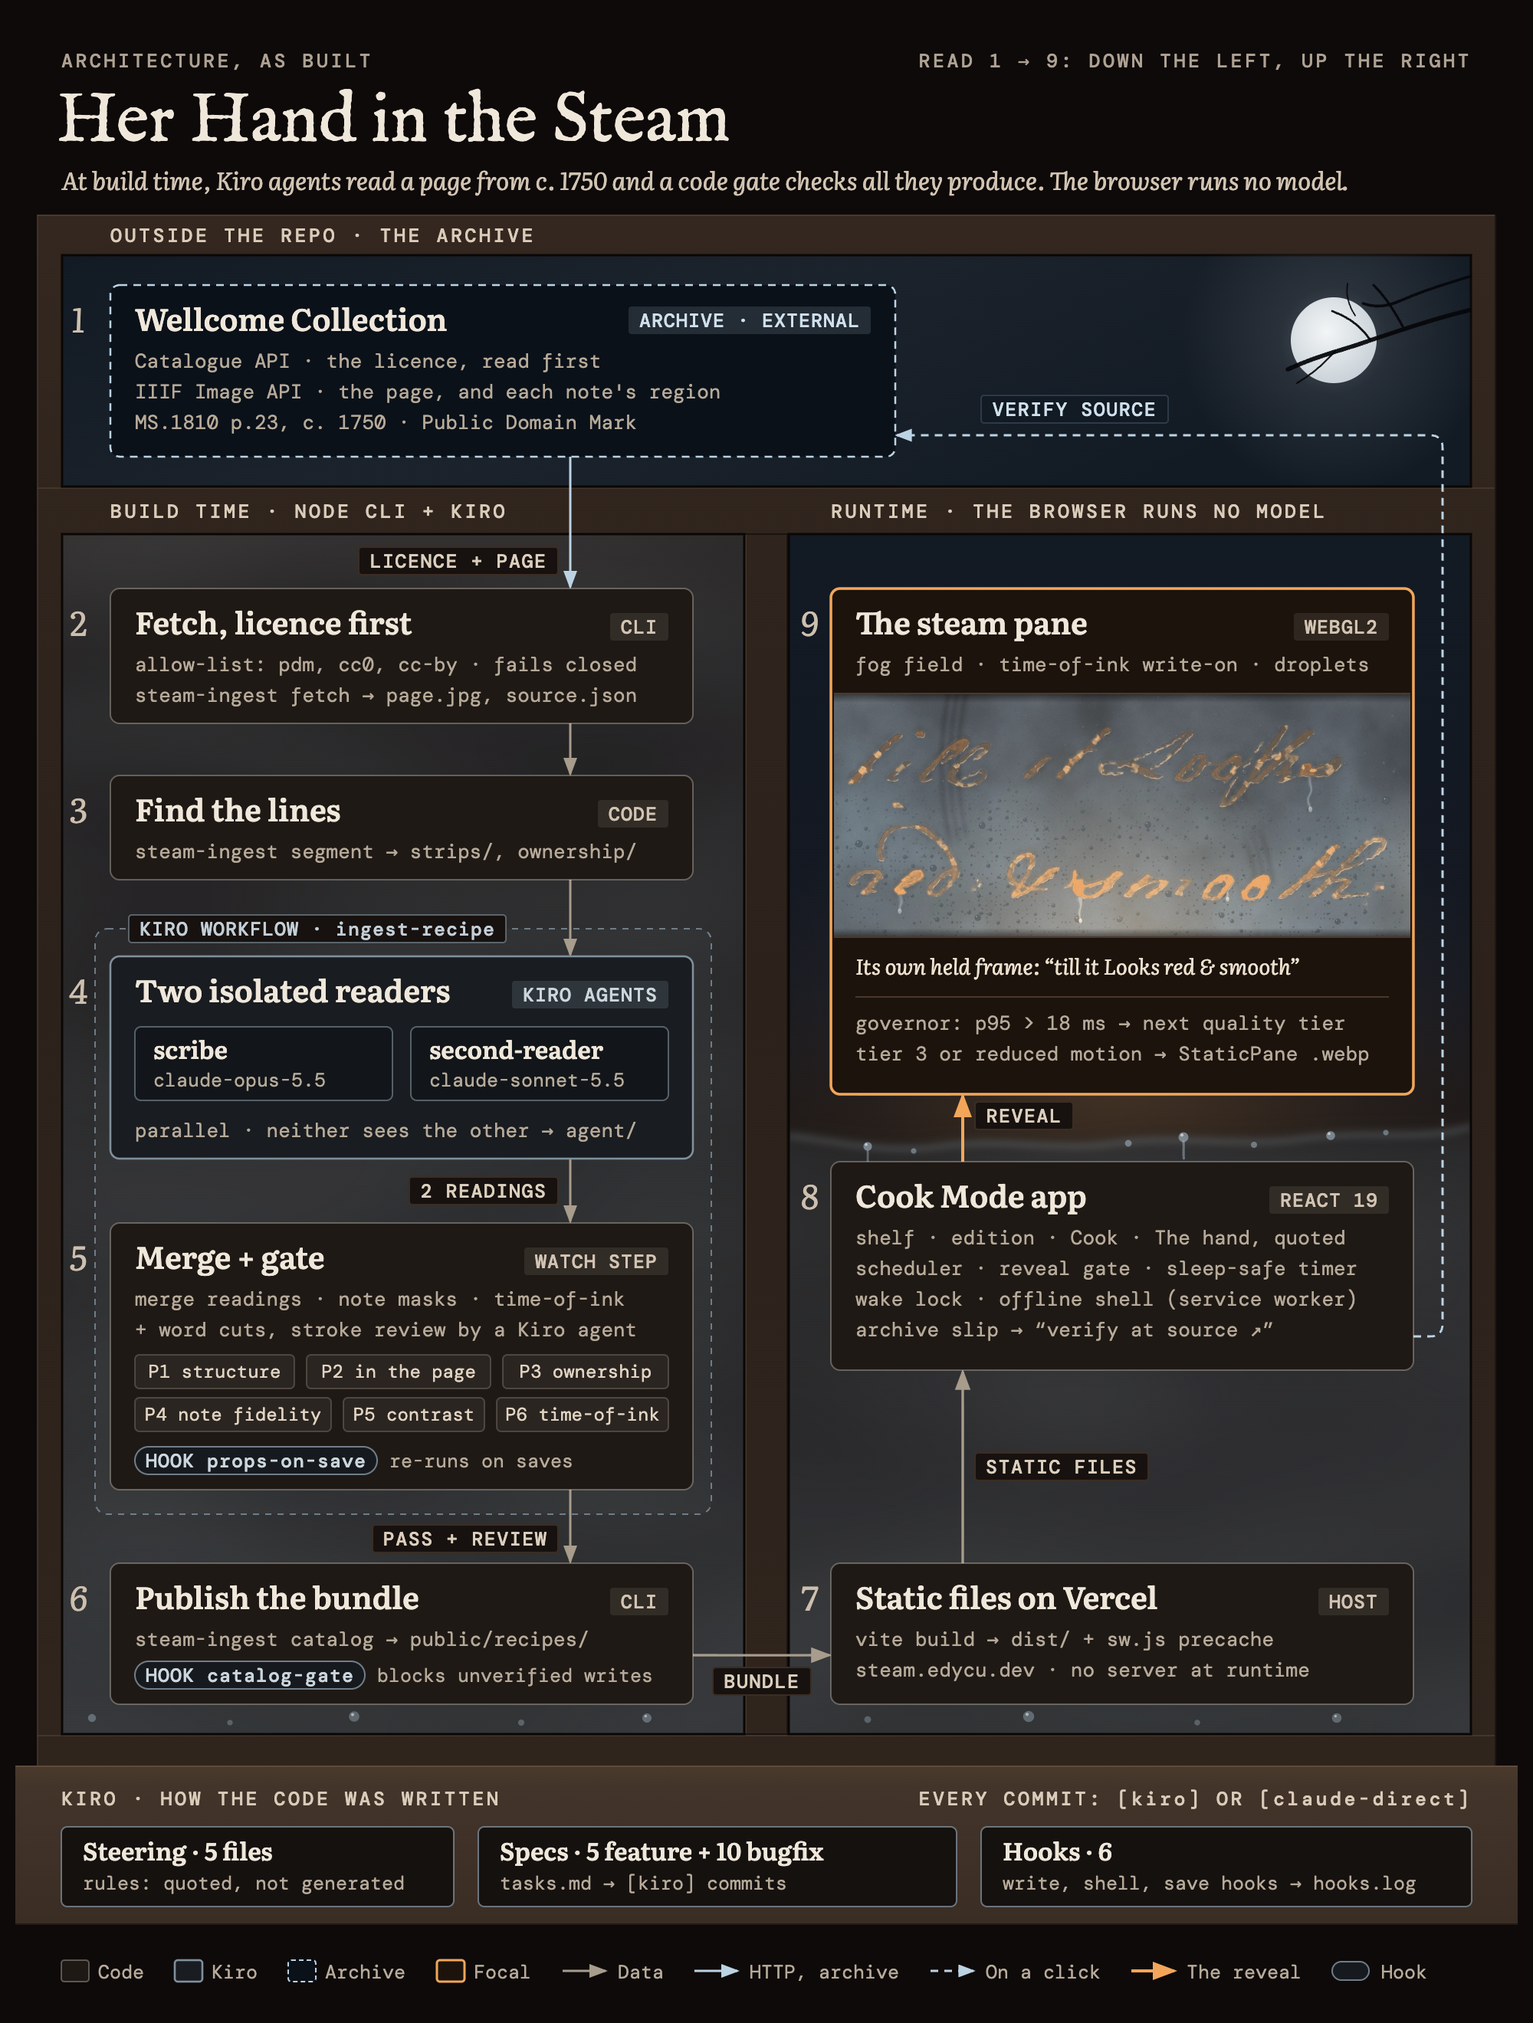
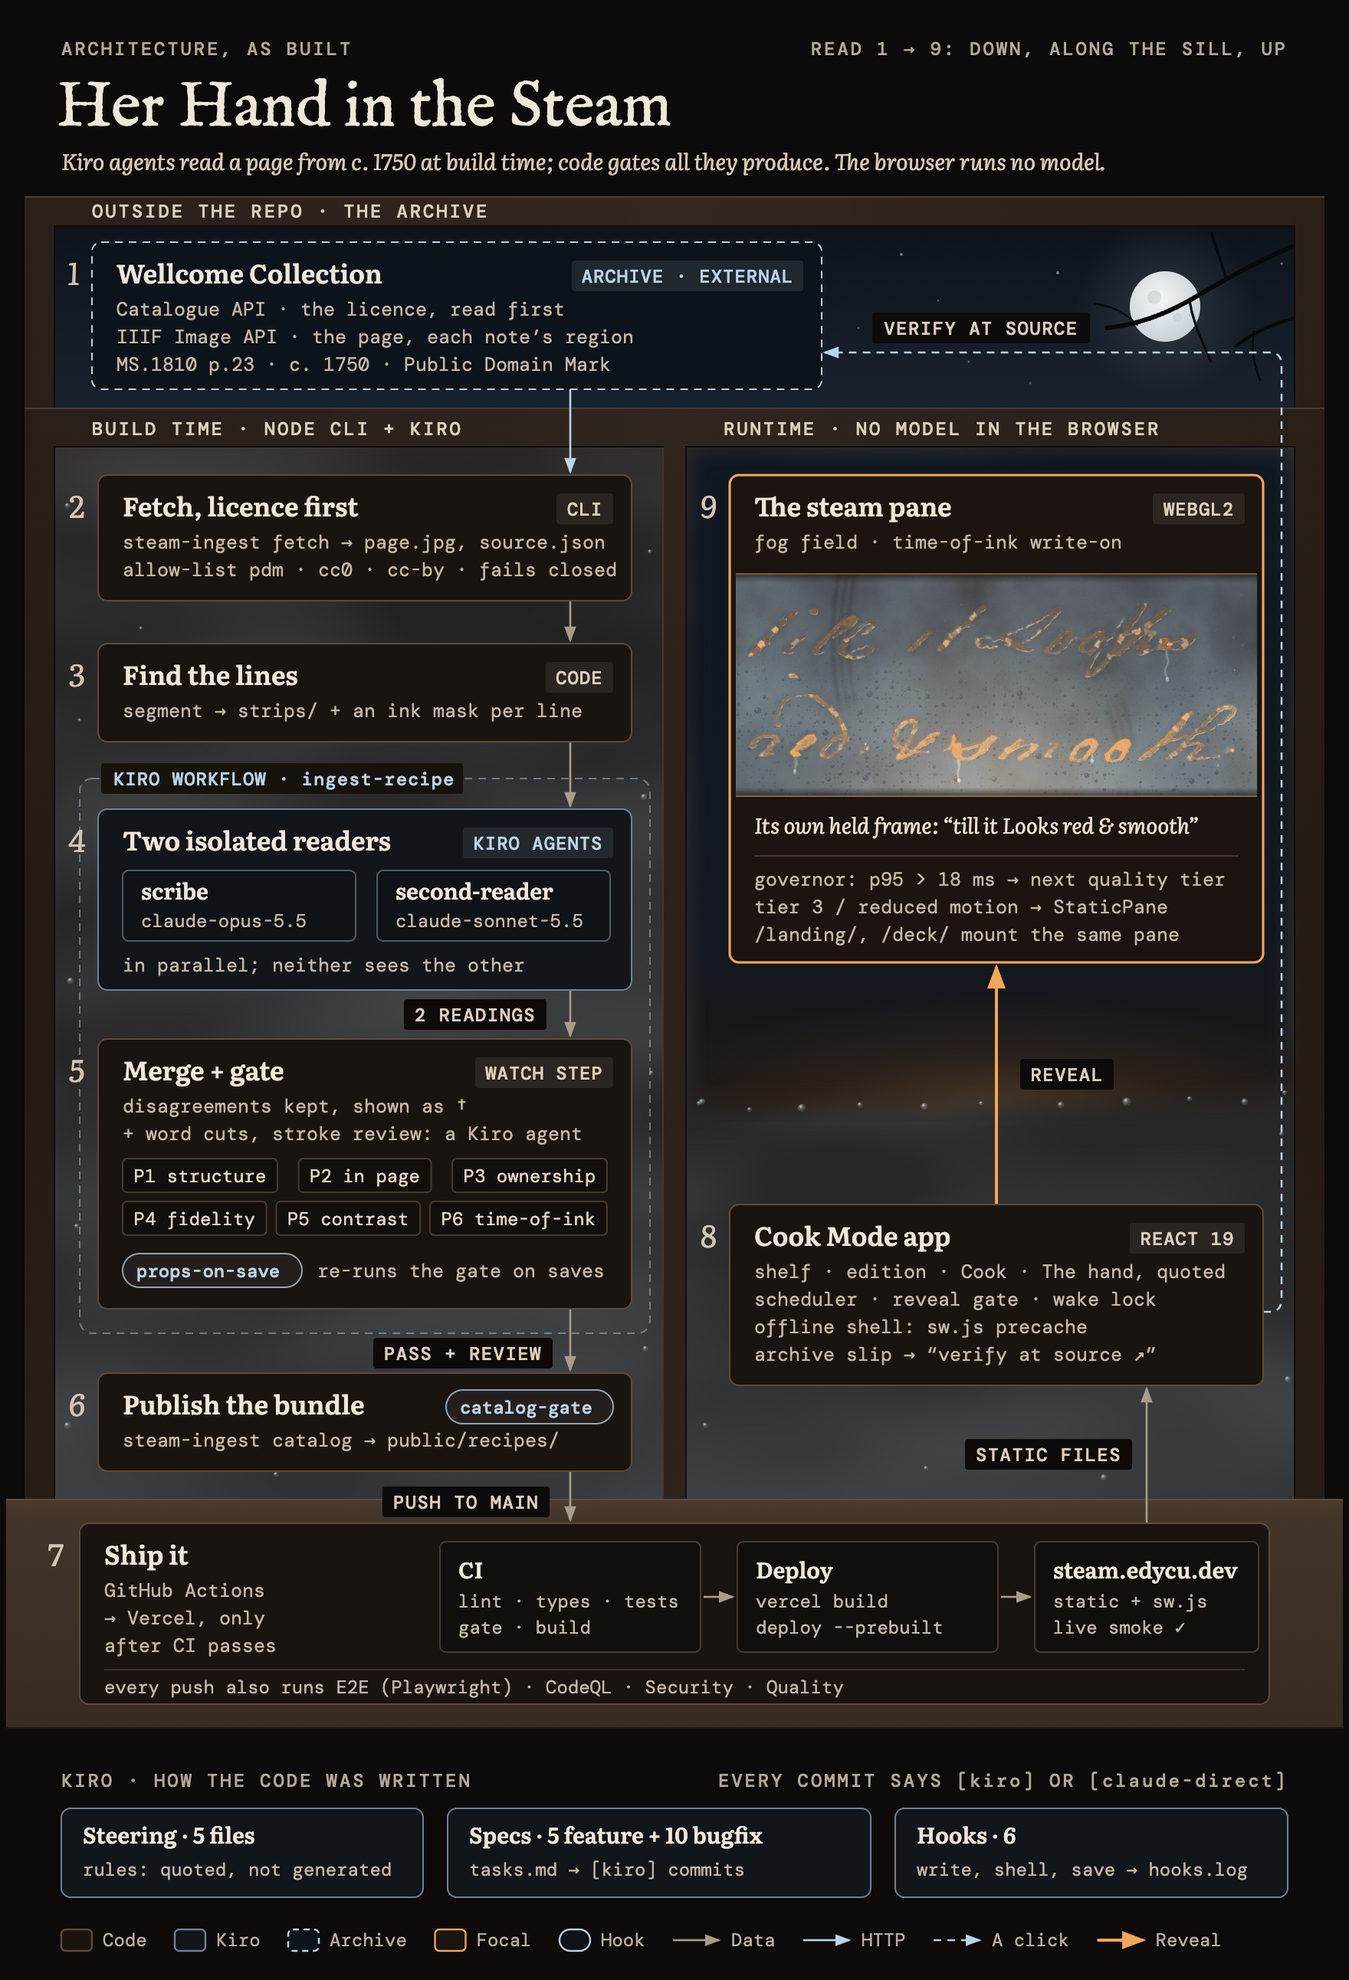
[claude-direct] Architecture diagram v2: drawn at the README's 880 px, shipping on the sill, the loop closed at the archive
- 880 px viewBox rendered at 2x (1760x2584), so every label is >= 12 px at README width (v1: 9.6-10.6 px)
- new box 7 'Ship it' on the sill: CI must pass before Deploy (vercel build -> deploy --prebuilt -> live smoke);
  E2E, CodeQL, Security and Quality on every push
- reading order down the build pane, along the sill, up the runtime pane; the dashed verify-at-source link
  returns to the archive the ink came from
- runtime pane glass wiped clear above a beaded fog line; the steam pane keeps the renderer's own held frame
- ARCHITECTURE.md: Mermaid and the box-to-files table follow (box 7 = the workflows, live-smoke, vite plugins)
oxipng -o max --strip safe, pixel-identical to the render.

diff --git a/ARCHITECTURE.md b/ARCHITECTURE.md
@@ -1,44 +1,46 @@
 # Architecture
 
-![Her Hand in the Steam, architecture as built, drawn as a sash window. Upper sash, step 1: the Wellcome Collection archive. Left lower pane, build time, steps 2 to 6: steam-ingest fetch checks the licence first; segment finds the lines; two isolated Kiro agents, scribe and second-reader, read the line strips inside the Kiro workflow ingest-recipe; the code gate merges the readings with a Kiro agent's word cuts and stroke review and checks properties P1 to P6; steam-ingest catalog publishes the bundle. Right lower pane, runtime, steps 7 to 9: static files on Vercel load the Cook Mode app, which reveals the scan's own ink in the WebGL2 steam pane and links back to the archive. Sill: Kiro steering, specs and hooks, how the code was written.](docs/architecture.png)
+![Her Hand in the Steam, architecture as built, drawn as a sash window and read 1 to 9. Upper sash, outside the repo: 1 the Wellcome Collection archive (Catalogue API for the licence, IIIF Image API for the page and each note's region; MS.1810 p.23, c. 1750, Public Domain Mark). Left lower pane, build time, down: 2 steam-ingest fetch checks the licence first against the allow-list pdm, cc0, cc-by; 3 segment cuts the line strips and an ink mask per line; inside the Kiro workflow ingest-recipe, 4 two isolated Kiro agents, scribe on claude-opus-5.5 and second-reader on claude-sonnet-5.5, read the strips in parallel, and 5 the code gate merges their readings, keeps disagreements as daggers, takes a Kiro agent's word cuts and stroke review, and checks properties P1 to P6, re-run on saves by the props-on-save hook; 6 steam-ingest catalog publishes the bundle to public/recipes/ behind the catalog-gate hook. Along the sill: 7 a push to main runs GitHub Actions; CI (lint, types, tests, gate, build) must pass before Deploy runs vercel build and deploy --prebuilt to steam.edycu.dev, followed by a live smoke test; every push also runs E2E, CodeQL, Security and Quality. Right lower pane, runtime with no model in the browser, up: the static files load 8 the Cook Mode app (shelf, edition, Cook, The hand, quoted; scheduler, reveal gate, wake lock; offline shell), which reveals the scan's own ink in 9 the WebGL2 steam pane, shown with the renderer's own held frame of "till it Looks red & smooth"; a dashed verify-at-source link returns from the app to the archive. Below: Kiro steering (5 files), specs (5 feature, 10 bugfix) and hooks (6), how the code was written.](docs/architecture.png)
 
-Read it as a window, steps 1 to 9: the archive is outside, in the clear upper sash. The left pane is **build time** (top to bottom), the right pane is **runtime** (bottom to top), and the sill is how the code itself was written. At build time two isolated Kiro agents read the page, run through the `ingest-recipe` workflow; a Kiro agent then chose the word boundaries (`alignment.json`) and settled the joined strokes (`ownership-review.json`), and the code gate checks every result. The browser runs no model.
+Read it as a window, steps 1 to 9: the archive is outside, in the clear upper sash. The left pane is **build time** (top to bottom), the sill is **shipping** (left to right), the right pane is **runtime** (bottom to top), and the dashed "verify at source" link closes the loop at the archive the ink came from. Below the window is how the code itself was written. At build time two isolated Kiro agents read the page, run through the `ingest-recipe` workflow; a Kiro agent then chose the word boundaries (`alignment.json`) and settled the joined strokes (`ownership-review.json`), and the code gate checks every result. The browser runs no model.
 
 The same boxes and arrows as text:
 
 ```mermaid
 flowchart TB
   subgraph archive["Outside the repo: the archive"]
-    W["1 Wellcome Collection<br/>Catalogue API: the licence, read first<br/>IIIF Image API: the page, and each note's region<br/>MS.1810 p.23, c. 1750, Public Domain Mark"]
+    W["1 Wellcome Collection<br/>Catalogue API: the licence, read first<br/>IIIF Image API: the page, each note's region<br/>MS.1810 p.23, c. 1750, Public Domain Mark"]
   end
   subgraph build["Build time: Node CLI + Kiro"]
-    F["2 Fetch, licence first<br/>allow-list: pdm, cc0, cc-by, fails closed<br/>steam-ingest fetch: page.jpg, source.json"]
-    S["3 Find the lines<br/>steam-ingest segment: strips/, ownership/"]
+    F["2 Fetch, licence first<br/>steam-ingest fetch: page.jpg, source.json<br/>allow-list pdm, cc0, cc-by; fails closed"]
+    S["3 Find the lines<br/>segment: strips/ + an ink mask per line"]
     subgraph wf["Kiro workflow: ingest-recipe"]
-      R["4 Two isolated readers (Kiro agents)<br/>scribe: claude-opus-5.5<br/>second-reader: claude-sonnet-5.5<br/>parallel, neither sees the other: agent/"]
-      G["5 Merge + gate (watch step)<br/>merge readings, note masks, time-of-ink<br/>+ word cuts, stroke review by a Kiro agent<br/>P1 structure, P2 in the page, P3 ownership,<br/>P4 note fidelity, P5 contrast, P6 time-of-ink<br/>hook props-on-save: re-runs on saves"]
+      R["4 Two isolated readers (Kiro agents)<br/>scribe: claude-opus-5.5<br/>second-reader: claude-sonnet-5.5<br/>in parallel; neither sees the other"]
+      G["5 Merge + gate (watch step)<br/>disagreements kept, shown as †<br/>+ word cuts, stroke review: a Kiro agent<br/>P1 structure, P2 in the page, P3 ownership,<br/>P4 note fidelity, P5 contrast, P6 time-of-ink<br/>hook props-on-save: re-runs the gate on saves"]
     end
-    C["6 Publish the bundle<br/>steam-ingest catalog: public/recipes/<br/>hook catalog-gate: blocks unverified writes"]
+    C["6 Publish the bundle<br/>steam-ingest catalog: public/recipes/<br/>hook catalog-gate"]
   end
-  subgraph runtime["Runtime: the browser runs no model"]
-    V["7 Static files on Vercel<br/>vite build: dist/ + sw.js precache<br/>steam.edycu.dev, no server at runtime"]
-    A["8 Cook Mode app (React 19)<br/>shelf, edition, Cook, The hand, quoted<br/>scheduler, reveal gate, sleep-safe timer<br/>wake lock, offline shell (service worker)<br/>archive slip: verify at source"]
-    P["9 The steam pane (WebGL2)<br/>fog field, time-of-ink write-on, droplets<br/>governor: p95 over 18 ms, next quality tier<br/>tier 3 or reduced motion: StaticPane .webp"]
+  subgraph ship["Along the sill: GitHub Actions to Vercel"]
+    D["7 Ship it<br/>CI: lint, types, tests, gate, build<br/>Deploy (only after CI passes): vercel build, deploy --prebuilt<br/>steam.edycu.dev: static + sw.js, live smoke<br/>every push also runs E2E, CodeQL, Security, Quality"]
   end
-  subgraph sill["Kiro: how the code was written"]
+  subgraph runtime["Runtime: no model in the browser"]
+    A["8 Cook Mode app (React 19)<br/>shelf, edition, Cook, The hand, quoted<br/>scheduler, reveal gate, wake lock<br/>offline shell: sw.js precache<br/>archive slip: verify at source"]
+    P["9 The steam pane (WebGL2)<br/>fog field, time-of-ink write-on<br/>governor: p95 over 18 ms, next quality tier<br/>tier 3 / reduced motion: StaticPane<br/>/landing/, /deck/ mount the same pane"]
+  end
+  subgraph kiro["Kiro: how the code was written"]
     K1["Steering: 5 files<br/>rules: quoted, not generated"]
     K2["Specs: 5 feature + 10 bugfix<br/>tasks.md: [kiro] commits"]
-    K3["Hooks: 6<br/>write, shell, save hooks: hooks.log"]
+    K3["Hooks: 6<br/>write, shell, save: hooks.log"]
   end
-  W -->|licence + page| F
+  W --> F
   F --> S
   S --> R
   R -->|2 readings| G
   G -->|pass + review| C
-  C -->|bundle| V
-  V -->|static files| A
+  C -->|push to main| D
+  D -->|static files| A
   A ==>|reveal| P
-  A -.->|verify source| W
+  A -.->|verify at source| W
 ```
 
 ## Where each box lives
@@ -52,9 +54,9 @@ flowchart TB
 | 4 Two isolated readers | `.kiro/agents/scribe.json`, `.kiro/agents/second-reader.json`; their readings: `content/recipes/quinces-marmalade/agent/scribe.json`, `agent/second.json` |
 | 5 Merge + gate | `tools/steam-ingest/watch.ts` (the watch-step protocol) → `tools/steam-ingest/gate.ts` → `src/ingest/gate.ts` (`mergeReadings`, `noteOwnership` from `masks.ts`, `buildNote` from `timeofink.ts`); properties P1-P6 in `src/ingest/props.ts` and `src/ingest/gate.ts`; result: `content/recipes/quinces-marmalade/gate.json` (P1-P6 pass). Its other agent-made inputs: `alignment.json` (word boundaries, by a Kiro agent) and `ownership-review.json` (joined strokes, by a Kiro agent). Hook: `.kiro/hooks/props-on-save.json` → `tools/hooks/props-on-save.ts` re-runs the gate when an agent writes a gate input |
 | 6 Publish the bundle | `tools/steam-ingest/catalog.ts`, the only writer of `content/catalog.json`; it refuses a recipe whose gate did not pass, and an agent-transcribed recipe without a `review.json` that matches the gate; it copies `recipe.json`, `page.jpg` and the note files to `public/recipes/<id>/`. The review record is agent-signed, not a human's (README, "Honest limits"). Hook: `.kiro/hooks/catalog-gate.json` → `tools/hooks/catalog-gate.ts` refuses a write to the catalog that lists a recipe failing those checks |
-| 7 Static files on Vercel | `vite.config.ts`, `tools/offline/vite-plugin.ts` (emits `dist/sw.js` with the precache list), `vercel.json`; live at https://steam.edycu.dev |
-| 8 Cook Mode app | `src/App.tsx`, `src/app/router.ts` (hash router), `src/app/Shelf.tsx`, `Edition.tsx`, `Cook.tsx`, `Quoted.tsx`; `src/cook/scheduler.ts` (sleep and resume), `src/cook/clock.ts` (wall time), `src/app/useCookSession.ts` (sleep and resume from page visibility), `src/cook/revealGate.ts`, `src/cook/visibleTimer.ts` (the visible-only wait for the final wipe), `src/cook/wakelock.ts`; `src/offline/`; the verify link: `src/app/components/ArchiveSlip.tsx` → `regionUrl` in `src/data/provenance.ts` |
-| 9 The steam pane | `src/steam/renderer.ts` (`getContext('webgl2')`), `src/steam/governor.ts` (`GOV_P95_MS = 18`, `MAX_TIER = 3`), `src/steam/SteamGlass.tsx` (static when reduced motion, no WebGL2, or a lost context that is not restored within 2 s), `src/steam/StaticPane.tsx`, `src/steam/drips.ts` |
+| 7 Ship it | `.github/workflows/ci.yml` (lint: oxlint + actionlint; typecheck; unit + property tests on Node 22 and 24; `npm run props`, the gate; build + `check:dist`), `.github/workflows/deploy.yml` (runs only after CI succeeds on a push to main, or by hand from main: `vercel pull`, `vercel build --prod`, `vercel deploy --prebuilt --prod`, GitHub environment `production`), `scripts/live-smoke.ts` (after the deploy: `/`, `/landing/`, `/deck/`, the hero deep link in Chromium and the files it loads, and the served bundle name against the built one); the build itself: `vite.config.ts`, `tools/offline/vite-plugin.ts` (emits `dist/sw.js` with the precache list), `tools/site/vite-plugin.ts` (`dist/site/glass.js` for the landing page and deck), `vercel.json`; live at https://steam.edycu.dev. Beside it on every push: `.github/workflows/e2e.yml` (Playwright), `codeql.yml`, `security.yml` (gitleaks, npm audit, dependency review), `quality.yml` (Lighthouse CI with `lighthouserc.json`, `scripts/bundle-budget.ts`). The Vercel project has no Git integration, so `deploy.yml` is the only path from a push to production |
+| 8 Cook Mode app | `src/App.tsx`, `src/app/router.ts` (hash router), `src/app/Shelf.tsx`, `Edition.tsx`, `Cook.tsx`, `Quoted.tsx`; `src/cook/scheduler.ts` (sleep and resume), `src/cook/clock.ts` (wall time), `src/app/useCookSession.ts` (sleep and resume from page visibility), `src/cook/revealGate.ts`, `src/cook/visibleTimer.ts` (the visible-only wait for the final wipe), `src/cook/wakelock.ts`; `src/offline/` (the service worker that serves the Cook path offline); the verify link: `src/app/components/ArchiveSlip.tsx` → `regionUrl` in `src/data/provenance.ts` |
+| 9 The steam pane | `src/steam/renderer.ts` (`getContext('webgl2')`), `src/steam/governor.ts` (`GOV_P95_MS = 18`, `MAX_TIER = 3`), `src/steam/SteamGlass.tsx` (static when reduced motion, no WebGL2, or a lost context that is not restored within 2 s), `src/steam/StaticPane.tsx`, `src/steam/drips.ts`; `site/glass.tsx` + `site/GlassPane.tsx` mount the same `SteamGlass` on `/landing/` and `/deck/` |
 | Steering, specs, hooks | `.kiro/steering/` (5 files), `.kiro/specs/` (5 feature specs, 10 bugfix specs), `.kiro/hooks/` (6) → `tools/hooks/*.ts` → `docs/kiro-evidence/hooks.log`. Five hooks run on write, shell and file-save events; the sixth, `tests-after-task`, runs at the end of a spec task and has no `hooks.log` line (it does not fire in headless runs). How each was used: [`docs/KIRO.md`](docs/KIRO.md) |
 
 ## Notes
@@ -62,4 +64,5 @@ flowchart TB
 - **The picture inside the steam pane** is the renderer's own frame, not an illustration: `public/recipes/quinces-marmalade/panes/till-it-looks-red-smooth-page-held.webp`, written by `scripts/render-static-panes.ts`, which opens the live pane and photographs it (the same images `StaticPane` shows). It is cropped and scaled down to fit the figure.
 - **Not drawn as an arrow:** the `panes/*.webp` files reach `public/` through `scripts/render-static-panes.ts` (`npm run static-panes`), not through `steam-ingest catalog`; a catalog run clears `public/recipes/<id>/` first, so the panes are rendered again after it. The diagram shows one recipe-bundle arrow.
 - **Commit labels:** each product commit says who wrote it, `[kiro]` or `[claude-direct]`; count them with `git log --format=%s | grep -c '^\[kiro\]'`.
-- The diagram's source is kept outside this repository; it is drawn from the files listed above.
+- **Not drawn as boxes:** `scripts/verify_provenance.py` makes the same trip as the dashed arrow: it re-fetches each note's region from the IIIF Image API and checks the bundled crop against it (README, Engineering Rigor).
+- The diagram is drawn at 880 px wide, the README column, and rendered at 2x (1760 px). Its source is kept outside this repository; it is drawn from the files listed above.

diff --git a/README.md b/README.md
@@ -42,9 +42,9 @@ Cook Mode runs the recipe's steps against a pot on a fogged window. At the step 
 
 ## 🏗 Architecture & Tech Stack
 
-![Architecture drawn as a sash window, steps 1 to 9. Upper sash: the Wellcome Collection archive (Catalogue API for the licence, IIIF Image API for the page). Left lower pane, build time: steam-ingest fetch checks the licence first, segment finds the lines, two isolated Kiro agents (scribe, second-reader) read the strips inside the Kiro workflow ingest-recipe, the code gate merges the readings with a Kiro agent's word cuts and stroke review and checks P1 to P6, and steam-ingest catalog publishes the bundle. Right lower pane, runtime: static files on Vercel load the Cook Mode app, which reveals the scan's own ink in the WebGL2 steam pane and links back to the archive. Sill: Kiro steering, specs and hooks, how the code was written.](docs/architecture.png)
+![Architecture as built, drawn as a sash window and read 1 to 9. Upper sash: 1 the Wellcome Collection archive (Catalogue API for the licence, IIIF Image API for the page). Left pane, build time, down: 2 steam-ingest fetch checks the licence first, 3 segment cuts the lines and their ink masks, 4 two isolated Kiro agents (scribe, second-reader) read the strips inside the Kiro workflow ingest-recipe, 5 the code gate merges the readings with a Kiro agent's word cuts and stroke review and checks P1 to P6, 6 steam-ingest catalog publishes the bundle. Along the sill: 7 GitHub Actions, where CI must pass before Deploy ships the prebuilt site to Vercel and a live smoke test runs. Right pane, runtime, up: 8 the Cook Mode app reveals the scan's own ink in 9 the WebGL2 steam pane, and its verify-at-source link returns to the archive. Below: Kiro steering, specs and hooks, how the code was written.](docs/architecture.png)
 
-*Read steps 1 to 9: down the left pane, then up the right. The picture inside the steam pane is the renderer's own held frame. Every box, with the files behind it and the same diagram in Mermaid: [`ARCHITECTURE.md`](ARCHITECTURE.md).*
+*Read steps 1 to 9: down the build pane, along the sill (shipping), up the runtime pane; the dashed "verify at source" link closes the loop at the archive. The picture inside the steam pane is the renderer's own held frame. Every box, with the files behind it and the same diagram in Mermaid: [`ARCHITECTURE.md`](ARCHITECTURE.md).*
 
 | Layer | What |
 |---|---|
